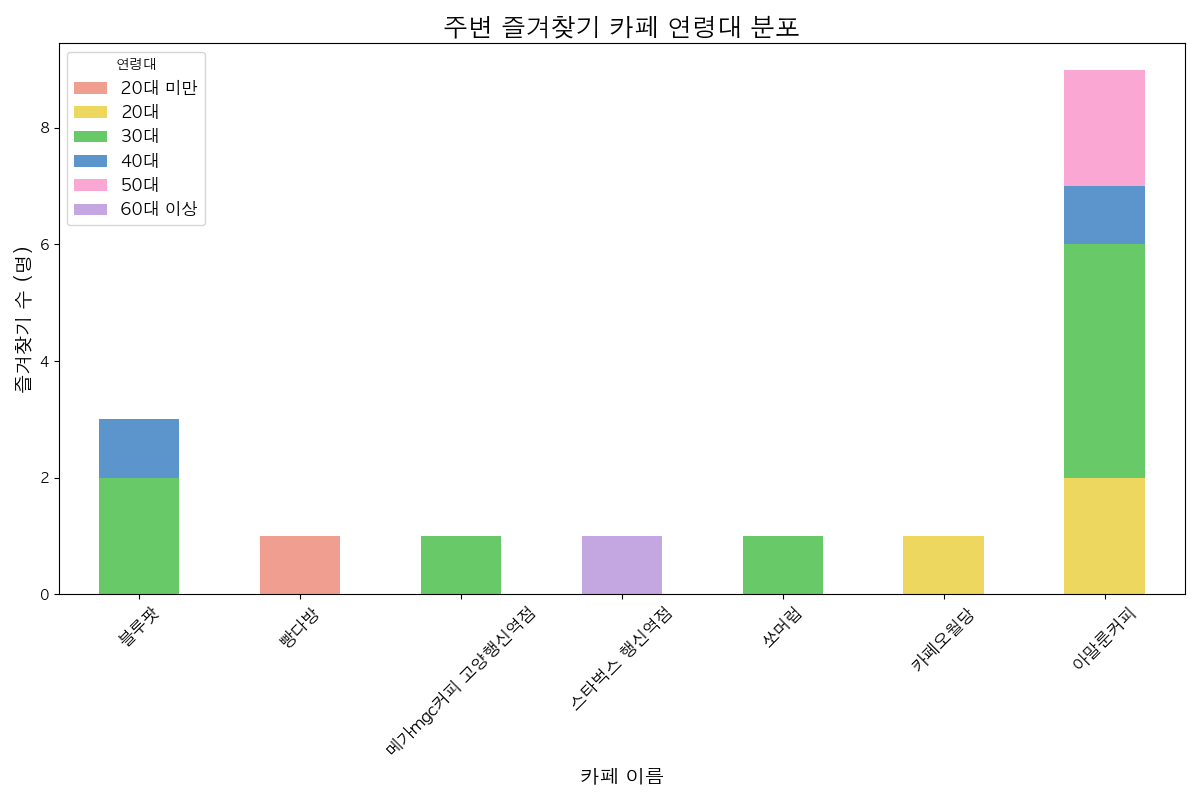
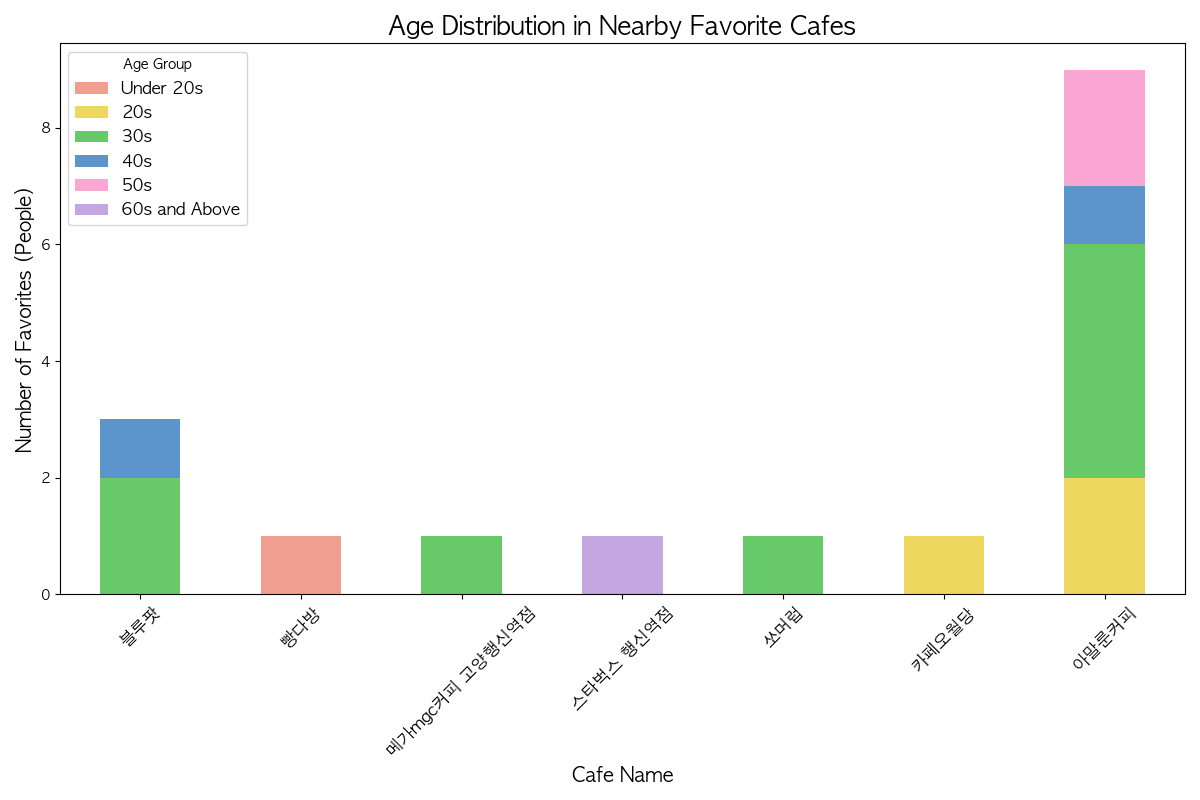
영어 수정

diff --git a/dataAnalysis.py b/dataAnalysis.py
@@ -1,6 +1,6 @@
 import os
 import pandas as pd
-from flask import Flask, jsonify, request, send_from_directory
+from flask import Flask, jsonify, request, send_from_directory, send_file
 import matplotlib
 import matplotlib.pyplot as plt
 from matplotlib import font_manager
@@ -15,31 +15,6 @@ import platform
 
 app = Flask(__name__)
 Swagger(app)
-
-# 시스템에 맞는 폰트 설정 함수
-def set_font_for_all_graphs():
-    try:
-        if platform.system() == 'Darwin':  # macOS
-            font_path = '/System/Library/Fonts/Supplemental/AppleGothic.ttf'
-        elif platform.system() == 'Windows':  # Windows
-            font_path = 'C:/Windows/Fonts/malgun.ttf'
-        else:  # Linux
-            font_path = '/usr/share/fonts/truetype/nanum/NanumGothic.ttf'
-
-        if not os.path.exists(font_path):
-            raise FileNotFoundError(f"폰트 파일을 찾을 수 없습니다: {font_path}")
-
-        font_prop = font_manager.FontProperties(fname=font_path)
-        matplotlib.rcParams['font.family'] = font_prop.get_name()
-        matplotlib.rcParams['axes.unicode_minus'] = False  # 음수 기호 처리
-
-        print(f"폰트 설정 완료: {font_prop.get_name()}")
-
-    except Exception as e:
-        print(f"폰트 설정 오류: {e}")
-        raise e
-
-set_font_for_all_graphs()
 
 
 CORS(app, resources={r"/api/*": {"origins": "*"}})
@@ -247,11 +222,11 @@ def generate_gender_distribution_image(output_path):
         if not gender_distribution.empty:
             plt.figure(figsize=(12, 8))
             gender_distribution[['남', '여']].plot(kind='bar', stacked=True, color=['skyblue', 'pink'])
-            plt.title('주변 즐겨찾기 카페 성별 분포', fontsize=18)
-            plt.xlabel('카페 이름', fontsize=14)
-            plt.ylabel('즐겨찾기 수 (명)', fontsize=14)
+            plt.title('Gender Distribution in Nearby Favorite Cafes', fontsize=18)
+            plt.xlabel('Cafe Name', fontsize=14)
+            plt.ylabel('Number of Favorites (People)', fontsize=14)
             plt.xticks(rotation=55, fontsize=10)
-            plt.legend(title='성별', labels=['남성', '여성'], fontsize=12)
+            plt.legend(title='Gender', labels=['Male', 'Female'], fontsize=12)
             plt.tight_layout()
             plt.savefig(output_path)
             plt.close()
@@ -291,7 +266,7 @@ def generate_age_distribution_image(output_path):
         )
 
         bins = [0, 19, 29, 39, 49, 59, 120]
-        labels = ['20대 미만', '20대', '30대', '40대', '50대', '60대 이상']
+        labels = ['Under 20s', '20s', '30s', '40s', '50s', '60s and Above']
         user_age_data['age_group'] = pd.cut(user_age_data['age'], bins=bins, labels=labels, right=False)
 
         # 연령대별 카페별 방문자 수 집계
@@ -326,11 +301,11 @@ def generate_age_distribution_image(output_path):
             age_distribution[labels].plot(
                 kind='bar', stacked=True, color=age_colors, ax=plt.gca()
             )
-            plt.title('주변 즐겨찾기 카페 연령대 분포', fontsize=18)
-            plt.xlabel('카페 이름', fontsize=14)
-            plt.ylabel('즐겨찾기 수 (명)', fontsize=14)
+            plt.title('Age Distribution in Nearby Favorite Cafes', fontsize=18)
+            plt.xlabel('Cafe Name', fontsize=14)
+            plt.ylabel('Number of Favorites (People)', fontsize=14)
             plt.xticks(rotation=45, fontsize=12)
-            plt.legend(title='연령대', fontsize=12)
+            plt.legend(title='Age Group', fontsize=12)
             plt.tight_layout()
 
             # 이미지 저장
@@ -349,7 +324,7 @@ def generate_age_distribution_image(output_path):
 
 # 요일 순서 지정 및 한글 매핑
 weekday_order = ['Sunday', 'Monday', 'Tuesday', 'Wednesday', 'Thursday', 'Friday', 'Saturday']
-weekday_korean = ['일', '월', '화', '수', '목', '금', '토']
+weekday_korean = ['Sun', 'Mon', 'Tue', 'Wed', 'Thu', 'Fri', 'Sat']
 
 
 def generate_busiest_and_least_busy_times():
@@ -377,33 +352,33 @@ def generate_busiest_and_least_busy_times():
     plt.figure(figsize=(10, 6))
 
     # 가장 붐비는 시간대
-    plt.bar(busiest_times['weekday_korean'], busiest_times['predicted_people'], color='lightcoral', label='가장 붐비는 시간대')
+    plt.bar(busiest_times['weekday_korean'], busiest_times['predicted_people'], color='lightcoral', label='Busiest Time')
     for i, row in busiest_times.iterrows():
         plt.text(
             row['weekday_korean'], 
             row['predicted_people'] + 0.5,  # 텍스트를 막대 위로 배치
-            f"{int(row['hour'])}시", 
+            f"{int(row['hour'])}o'clock", 
             ha='center', 
             va='bottom', 
             fontsize=10
         )
 
     # 가장 한가한 시간대
-    plt.bar(least_busy_times['weekday_korean'], least_busy_times['predicted_people'], color='skyblue', label='가장 한가한 시간대')
+    plt.bar(least_busy_times['weekday_korean'], least_busy_times['predicted_people'], color='skyblue', label='Calmest Time')
     for i, row in least_busy_times.iterrows():
         plt.text(
             row['weekday_korean'], 
             row['predicted_people'] + 0.2,  # 텍스트를 막대 위로 배치
-            f"{int(row['hour'])}시", 
+            f"{int(row['hour'])}o'clock", 
             ha='center', 
             va='bottom', 
             fontsize=10, 
             color='black',
             bbox=dict(facecolor='none', edgecolor='none', alpha=0.7)  # 텍스트 배경 추가
         )
-    plt.title('요일별 가장 붐비는 시간대와 한가한 시간대', fontsize=16)
-    plt.xlabel('요일', fontsize=10)
-    plt.ylabel('혼잡도 (예측 인원 수)', fontsize=12)
+    plt.title('Busiest and Calmest Time Periods by Day of the Week', fontsize=16)
+    plt.xlabel('Week', fontsize=10)
+    plt.ylabel('Congestion', fontsize=12)
     plt.ylim(0, data['predicted_people'].max() + 2) 
     plt.legend()
     plt.tight_layout()
@@ -415,9 +390,9 @@ def generate_busiest_and_least_busy_times():
     # 그래프 2: 평균 혼잡도
     plt.figure(figsize=(10, 6))
     plt.bar(average_congestion['weekday_korean'], average_congestion['predicted_people'], color='#2E8465', label='평균 혼잡도')
-    plt.title('요일별 평균 혼잡도', fontsize=16)
-    plt.xlabel('요일', fontsize=10)
-    plt.ylabel('평균 혼잡도 (예측 인원 수)', fontsize=12)
+    plt.title('Average Congestion by Day of the Week', fontsize=16)
+    plt.xlabel('Week', fontsize=10)
+    plt.ylabel('Congestion', fontsize=12)
     plt.ylim(0, data['predicted_people'].max() + 2) 
     plt.legend()
     plt.tight_layout()
@@ -460,28 +435,28 @@ def visualize_favorites_by_store():
         
         # 성별 분포
         gender_counts = matched_survey_data['gender'].value_counts()
-        gender_counts.plot(kind='bar', color=['lightpink', 'skyblue'], rot=0, title='성별 분포')
-        plt.ylabel('인원 수')
+        gender_counts.plot(kind='bar', color=['lightpink', 'skyblue'], rot=0, title='Gender Distribution')
+        plt.ylabel('Number of People')
         gender_path = os.path.join(STATIC_FOLDER, 'gender_distribution_target_store.png')
         plt.savefig(gender_path)
         plt.close()
         
         # 연령대별 분포
         age_bins = [0, 19, 29, 39, 49, 59, 120]
-        age_labels = ['20대 미만', '20대', '30대', '40대', '50대', '60대 이상']
+        age_labels = ['Under 20s', '20s', '30s', '40s', '50s', '60s and Above']
         matched_survey_data['age_group'] = pd.cut(matched_survey_data['age'], bins=age_bins, labels=age_labels, right=False)
         age_counts = matched_survey_data['age_group'].value_counts().sort_index()
-        age_counts.plot(kind='bar', color='#e38a6d', rot=0, title='연령대별 분포')
+        age_counts.plot(kind='bar', color='#e38a6d', rot=0, title='Age Distribution')
         plt.rc('font', family='AppleGothic')
-        plt.ylabel('인원 수')
+        plt.ylabel('Number of People')
         age_path = os.path.join(STATIC_FOLDER, 'age_distribution_target_store.png')
         plt.savefig(age_path)
         plt.close()
         
         # 선호 메뉴 분포
         favorite_menu_counts = matched_survey_data['favorite_menu'].value_counts()
-        favorite_menu_counts.plot(kind='bar', color='#8a6857', rot=45, title='선호 메뉴 분포')
-        plt.ylabel('선호도')
+        favorite_menu_counts.plot(kind='bar', color='#8a6857', rot=45, title='Favorite Menu Distribution')
+        plt.ylabel('Preference')
         menu_path = os.path.join(STATIC_FOLDER, 'favorite_menu_distribution_target_store.png')
         plt.savefig(menu_path, bbox_inches='tight')
         plt.close()
@@ -519,7 +494,7 @@ def get_target_store_visualization():
             "menuImageUrl": f"{BASE_URL}/static/favorite_menu_distribution_target_store.png",
             "busiestAndLeastBusyImageUrl": f"{BASE_URL}/static/busiest_and_least_busy.png",
             "averageCongestionImageUrl": f"{BASE_URL}/static/average_congestion.png",
-            "genderDistributionImageUrl": f"{BASE_URL}/static/gender_distribution.png",
+            "genderDistributionImageUrl": f"{BASE_URL}/static/gender_distribution.png?cache_buster=12345",
             "ageDistributionImageUrl": f"{BASE_URL}/static/age_distribution.png"
         })
 
@@ -536,6 +511,14 @@ def get_target_store_visualization():
 @app.route('/static/<path:filename>')
 def serve_static(filename):
     return send_from_directory(STATIC_FOLDER, filename)
+
+@app.route('/static/<filename>')
+def serve_image(filename):
+    return send_file(f'./static/{filename}', mimetype='image/png')
+
+@app.route('/favicon.ico')
+def favicon():
+    return '', 404  # 빈 응답을 반환하여 404 오류 처리
 
 
 if __name__ == '__main__':
